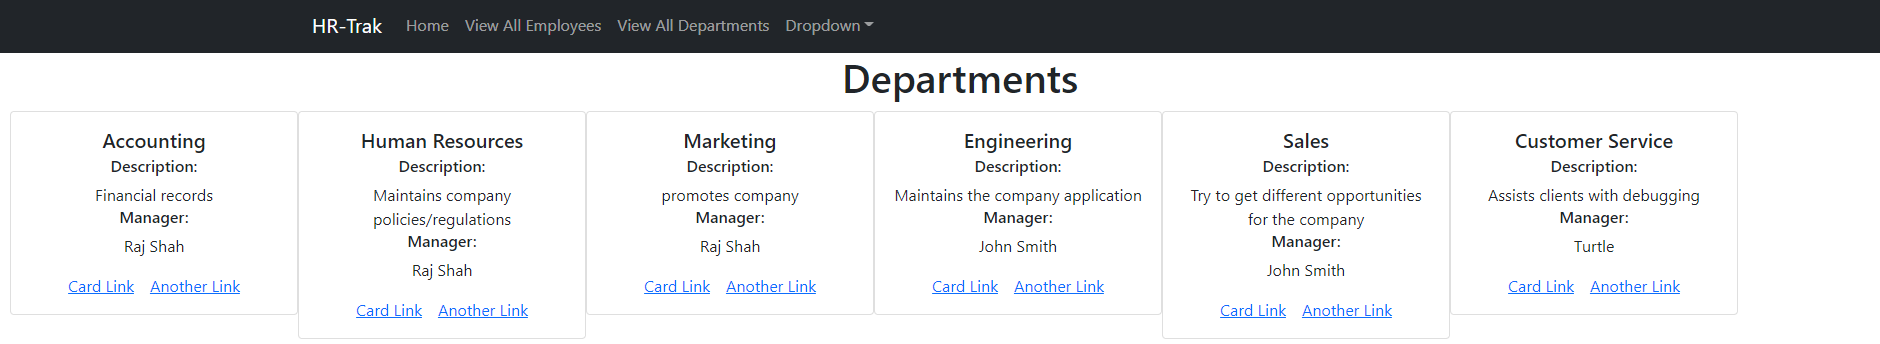
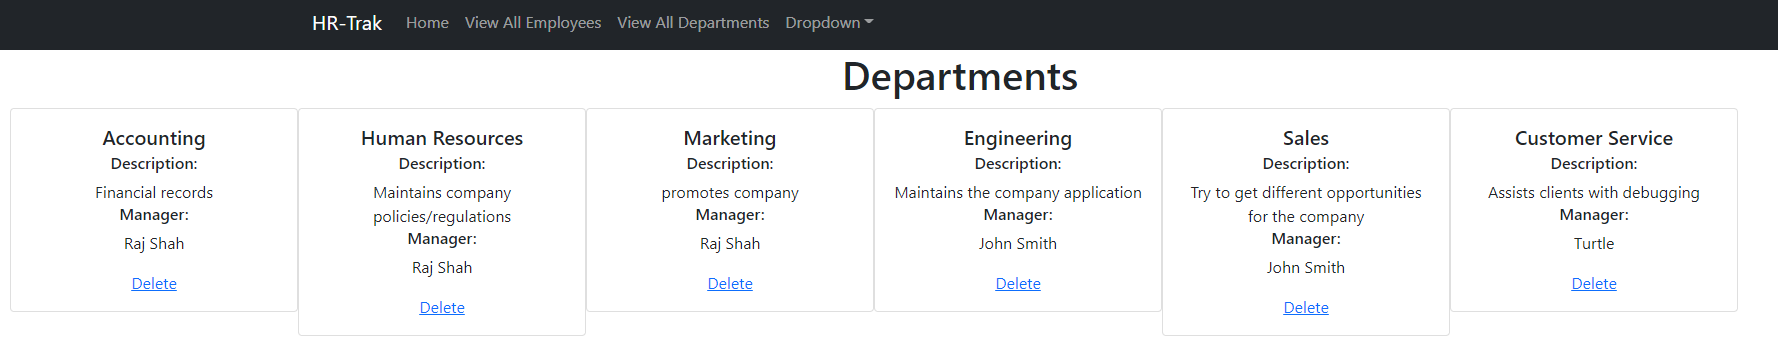
minor updates

diff --git a/hrtrak/src/components/Department/Department.jsx b/hrtrak/src/components/Department/Department.jsx
@@ -44,8 +44,8 @@ useEffect(() =>{
           <Card.Text>
            <h6>Description:</h6> {department.description} <br/> <h6>Manager:</h6> {department.manager.name}
           </Card.Text>
-          <Card.Link href="#">Card Link</Card.Link>
-          <Card.Link href="#">Another Link</Card.Link>
+      
+          <Card.Link href="#">Delete</Card.Link>
         </Card.Body>
       </Card>
       </div>
